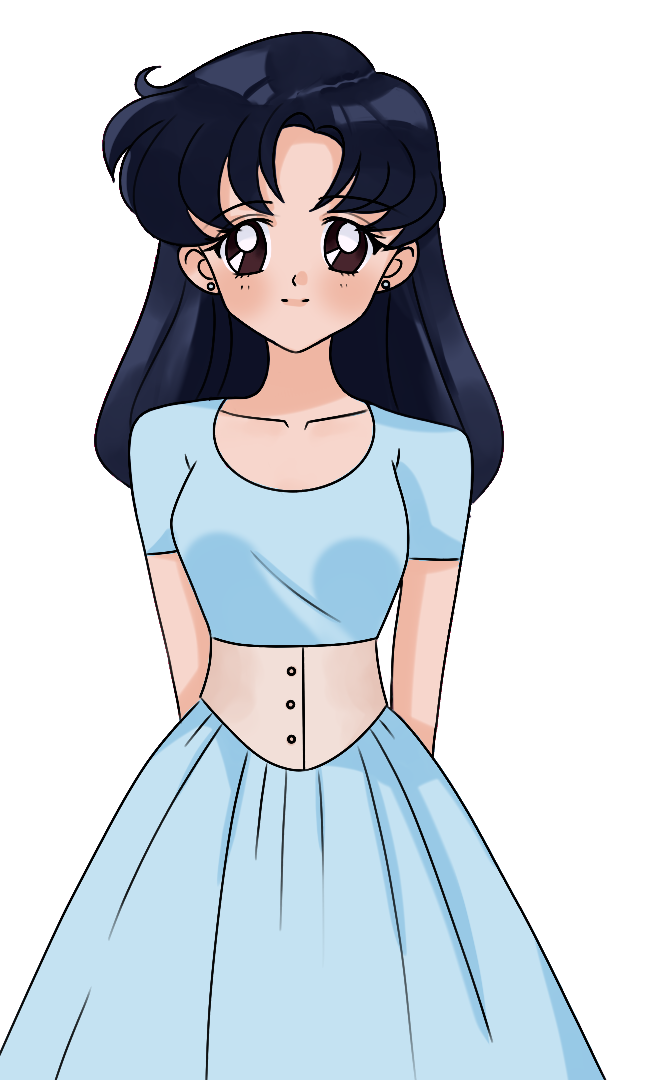
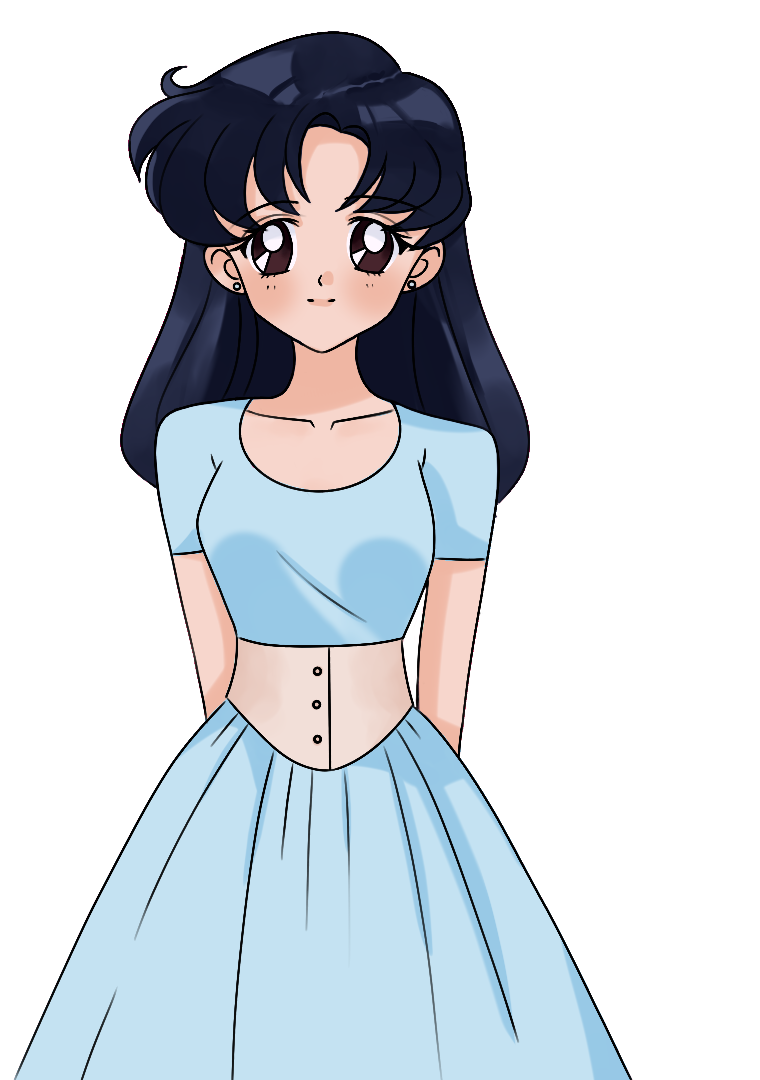
Mt Fuji, Shinto Temple, and Pre-Obon scenes, replaced main character makeover images

diff --git a/Assets/VisualNovel/Scripts/StartMakeover.cs b/Assets/VisualNovel/Scripts/StartMakeover.cs
@@ -1,0 +1,13 @@
+using System.Collections;
+using System.Collections.Generic;
+using UnityEngine;
+
+public class StartMakeover : MonoBehaviour
+{
+    // Start is called before the first frame update
+    void Start()
+    {
+        transform.GetComponent<Animator>().SetTrigger("HappyMakeover");
+        Destroy(this);
+    }
+}

diff --git a/Assets/VisualNovel/Scripts/Names.cs b/Assets/VisualNovel/Scripts/Names.cs
@@ -21,7 +21,7 @@ public static class Names
 		"Chef Gen",	// ID = 13 (sushi owner)
 		"Customer",	// ID = 14 (sushi)
 		"Customer", // ID = 15 (sushi)
-		"Stranger?",// ID = 16 (ghost at Shinto temple)
+		"Woman?",	// ID = 16 (ghost at Shinto temple)
 		"Mrs. Aki",	// ID = 17 street vendor
 		"Narrator",	// ID = 18
 	};
